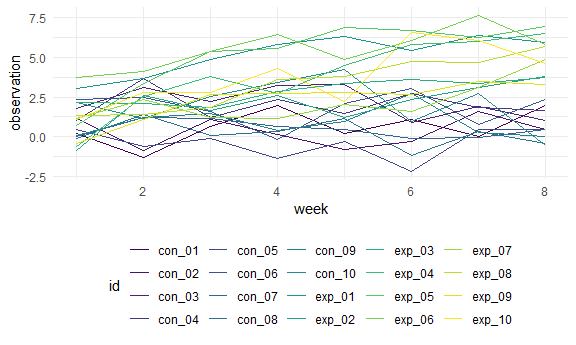
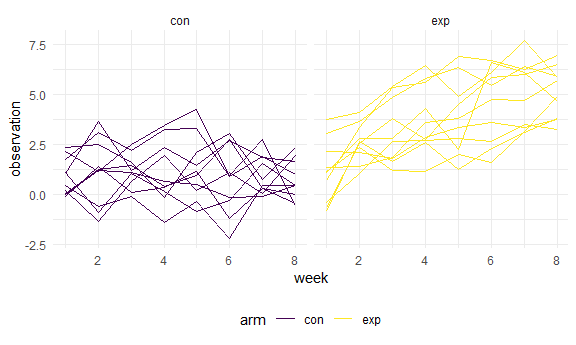
Edited plot in Problem 2 and finished Problem 3

diff --git a/homework_5.md b/homework_5.md
@@ -98,10 +98,13 @@ path_df =
   ) %>% 
   unnest(data) %>% 
   mutate(
-    path = str_replace(path, "data/study/", ""),
-    id = path,
-    id = str_replace(id, ".csv", ""),
-  ) %>% # pivot longer to tidy data
+    path = str_replace(path, "data/study/", "")
+  ) %>% 
+  separate(path, c("arm", "id"), sep = "_") %>% 
+  mutate(
+    id = str_replace(id, ".csv", "")
+    ) %>% 
+# pivot longer to tidy data
   pivot_longer(
     week_1:week_8,
     names_to = "week",
@@ -110,24 +113,24 @@ path_df =
   ) %>% 
   mutate(
     week = as.numeric(week)
-  ) %>% 
-  select(-path)
+  )
 ```
 
 **Create spaghetti plot and comment on group differences**
 
 ``` r
 path_df %>% 
-  ggplot(aes(x = week, y = observation, color = id)) +
-  geom_line()
+  ggplot(aes(x = week, y = observation, group = id, color = arm)) +
+  geom_line() +
+  facet_grid(. ~ arm)
 ```
 
 <img src="homework_5_files/figure-gfm/path_df plot-1.png" width="90%" />
 
 From the plot we can see that the control observation values are lower
-than the experimental group’s observations. Additionally, while the
-control group’s values seem to be stable over the 8 weeks, the
-experimental group’s values seem to be increasing.
+than the experimental group’s observations; while the control group’s
+values seem to be stable over the 8 weeks, the experimental group’s
+values seem to be increasing.
 
 ## Problem 3
 
@@ -225,13 +228,22 @@ sim_results %>%
   ) %>% 
   ungroup() %>% 
   ggplot(aes(x = mu)) +
-  geom_line(aes(y = mean_mu_hat), color = "red") +
-  geom_line(aes(y = mean_mu_hat_reject), color = "green") +
+  geom_line(aes(y = mean_mu_hat, color = "mean_mu_hat"), size = 1) +
+  geom_line(aes(y = mean_mu_hat_reject, color = "mean_mu_hat_reject"), size = 1) +
   labs(
     x = "true mu",
-    y = "mean estimate of mu",
-    title = "Average Estimates of Mu_Hat vs. Average Estimates of Mu_Hat Rejected"
-  )
+    y = "mean estimate of mu value"
+  ) +
+  scale_color_manual(values = c("green", "red"))
 ```
 
 <img src="homework_5_files/figure-gfm/unnamed-chunk-2-1.png" width="90%" />
+
+The average estimate of mu\_hat when null is rejected is approximately
+equal to the true value of mu when mu = 0, 4, 5, 6 because for most
+samples the null hypothesis will be rejected so the average estimate is
+very close to the true value of mu. When mu = 1, 2, 3, the average
+estimate of mu\_hat for rejected null hypotheses is not approximately
+equal because samples with rejected null hypothesis are on the upper
+tail of the distribution so the average estimate is larger than true
+value of mu.
